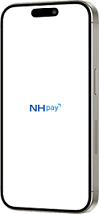
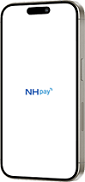
포트폴리오 업데이트
포트폴리오 업데이트

diff --git a/index.html b/index.html
@@ -457,9 +457,9 @@
             effect: 'fade'
         });
 
-        // 1024px에서 이미지 변경
+        // 800px에서 이미지 변경
         function switchMockupImagesForMobile() {
-            const isMobile = window.innerWidth <= 1024;
+            const isMobile = window.innerWidth <= 800;
             const images = document.querySelectorAll('.nhpay-mockup-swiper .swiper-slide img');
 
             images.forEach((img) => {
